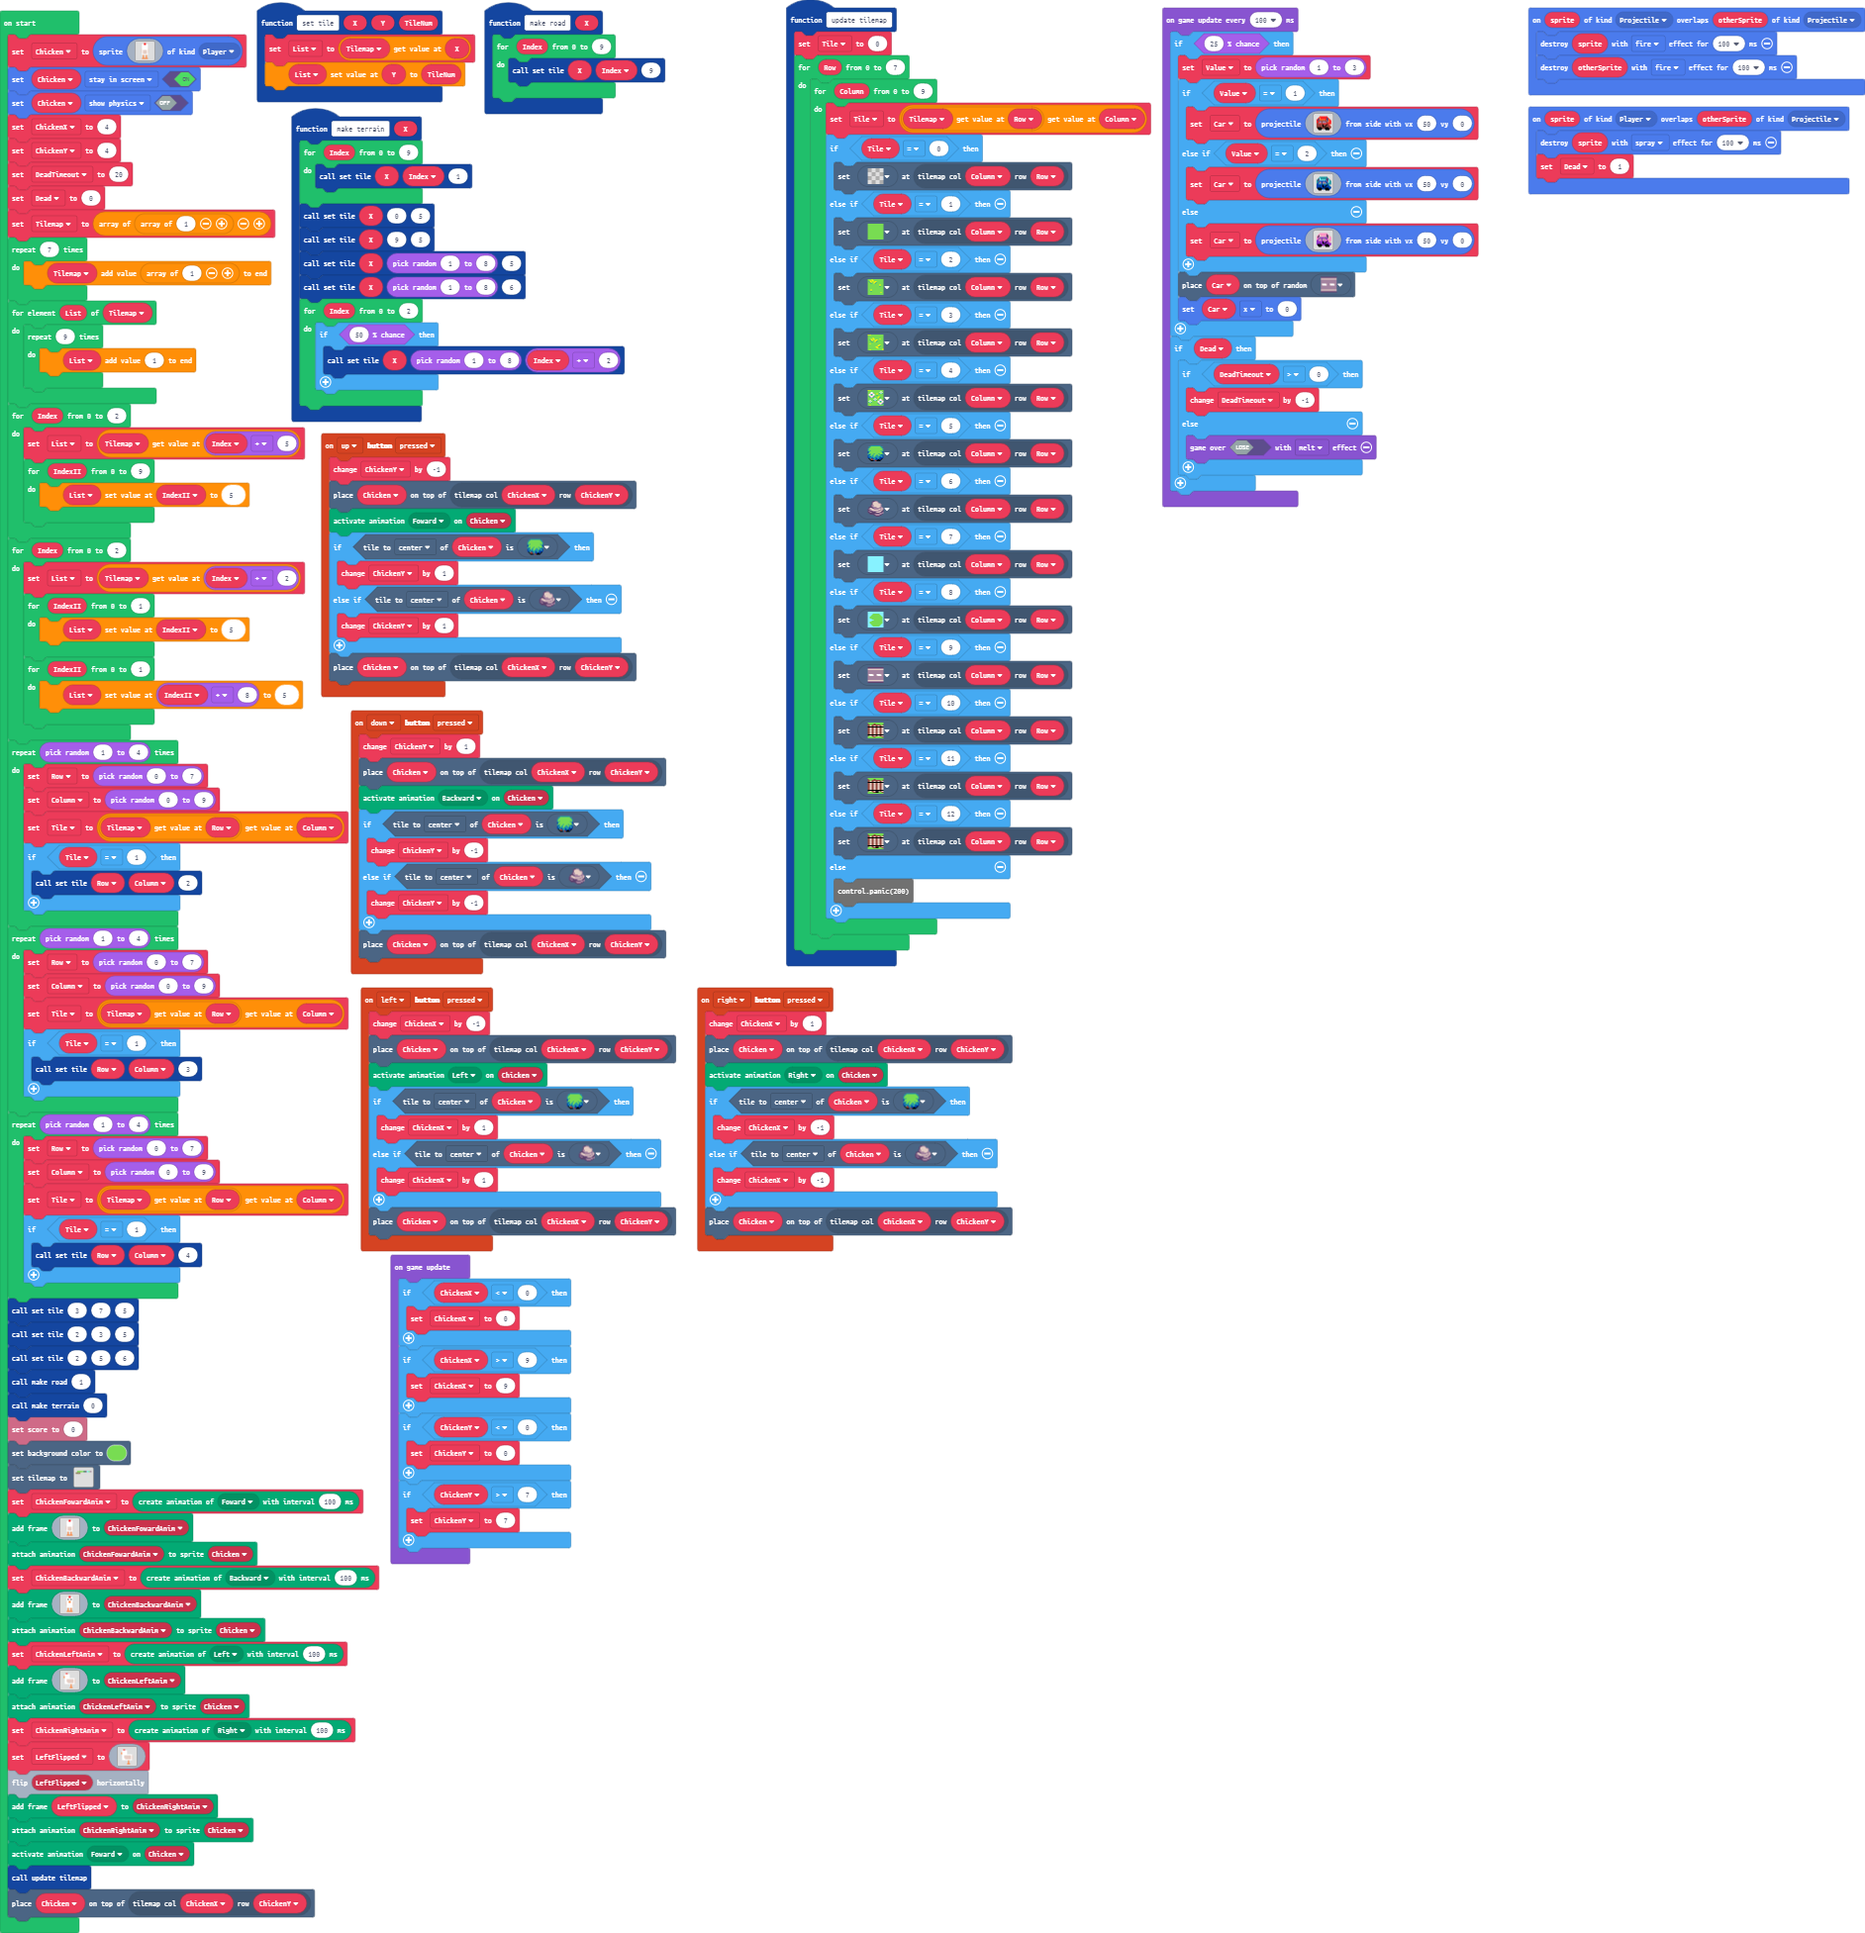
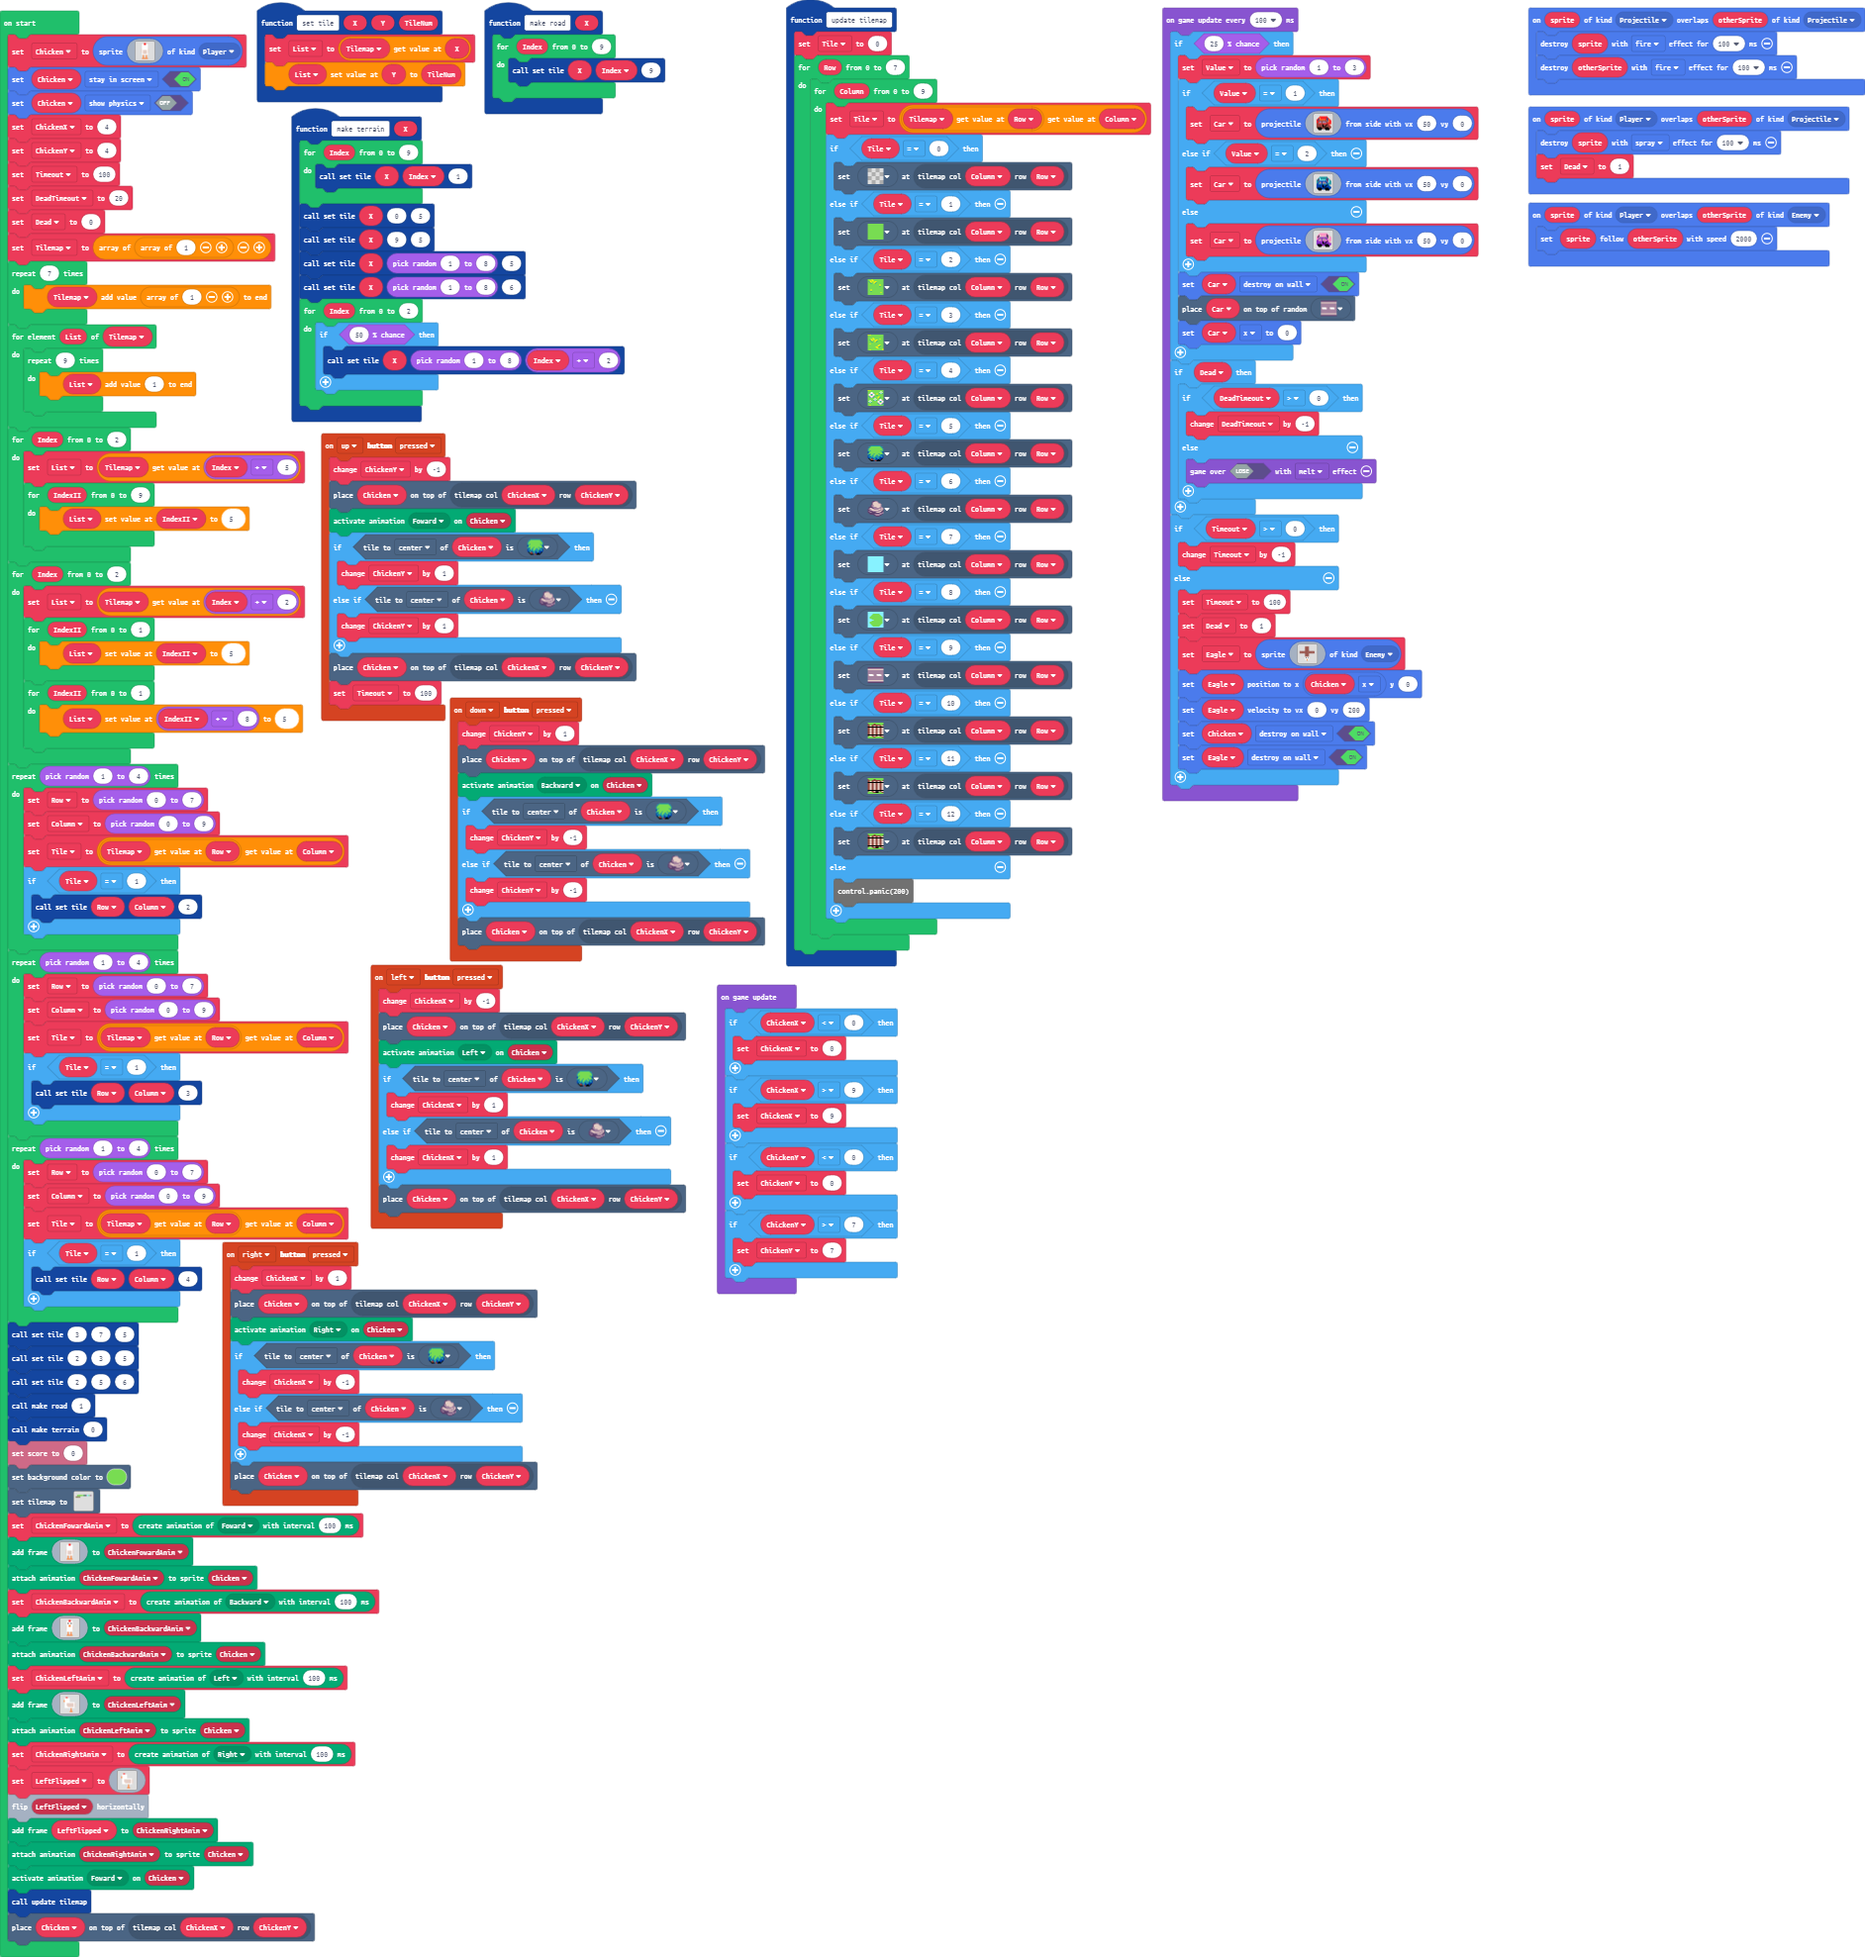
You can now die from idling

Changed region(s): [[0.0, 0.0, 0.6157, 0.9995], [0.6157, 0.0, 0.9851, 0.4373], [0.2771, 0.0, 0.3386, 0.0625]]

diff --git a/main.ts b/main.ts
@@ -186,6 +186,9 @@ sprites.onOverlap(SpriteKind.Projectile, SpriteKind.Projectile, function (sprite
     sprite.destroy(effects.fire, 100)
     otherSprite.destroy(effects.fire, 100)
 })
+sprites.onOverlap(SpriteKind.Player, SpriteKind.Enemy, function (sprite, otherSprite) {
+    sprite.follow(otherSprite, 2000)
+})
 controller.right.onEvent(ControllerButtonEvent.Pressed, function () {
     ChickenX += 1
     tiles.placeOnTile(Chicken, tiles.getTileLocation(ChickenX, ChickenY))
@@ -211,6 +214,7 @@ controller.up.onEvent(ControllerButtonEvent.Pressed, function () {
         ChickenY += 1
     }
     tiles.placeOnTile(Chicken, tiles.getTileLocation(ChickenX, ChickenY))
+    Timeout = 100
 })
 function make_road (X: number) {
     for (let Index = 0; Index <= 9; Index++) {
@@ -254,6 +258,7 @@ function update_tilemap () {
         }
     }
 }
+let Eagle: Sprite = null
 let Car: Sprite = null
 let Value = 0
 let Tile = 0
@@ -262,6 +267,7 @@ let Row = 0
 let List: number[] = []
 let Tilemap: number[][] = []
 let Dead = 0
+let Timeout = 0
 let ChickenY = 0
 let ChickenX = 0
 let Chicken: Sprite = null
@@ -287,6 +293,7 @@ Chicken.setFlag(SpriteFlag.StayInScreen, true)
 Chicken.setFlag(SpriteFlag.ShowPhysics, false)
 ChickenX = 4
 ChickenY = 4
+Timeout = 100
 let DeadTimeout = 20
 Dead = 0
 Tilemap = [[1]]
@@ -505,6 +512,7 @@ game.onUpdateInterval(100, function () {
 . . . . . . . . . . . . . . . . 
 `, 50, 0)
         }
+        Car.setFlag(SpriteFlag.DestroyOnWall, true)
         tiles.placeOnRandomTile(Car, sprites.vehicle.roadHorizontal)
         Car.x = 0
     }
@@ -514,6 +522,36 @@ game.onUpdateInterval(100, function () {
         } else {
             game.over(false, effects.melt)
         }
+    }
+    if (Timeout > 0) {
+        Timeout += -1
+    } else {
+        Timeout = 100
+        Dead = 1
+        Eagle = sprites.create(img`
+. . . . . . . e e e e e . . . . . . . . 
+. . . . . . . e e e e e . . . . . . . . 
+. . . . . . . e e e e e . . . . . . . . 
+. . . . . . . e e e e e . . . . . . . . 
+. . . . . . . e e e e e . . . . . . . . 
+. . . . . . . e e e e e . . . . . . . . 
+e e e e e e e e e e e e e e e e e e e . 
+e e e e e e e e e e e e e e e e e e e . 
+e e e e e e e e e e e e e e e e e e e . 
+. . . . . . . e e e e e . . . . . . . . 
+. . . . . . . e e e e e . . . . . . . . 
+. . . . . . . e e e e e . . . . . . . . 
+. . . . . . . e e e e e . . . . . . . . 
+. . . . . . . 1 1 1 1 1 . . . . . . . . 
+. . . . . . . 1 f 1 f 1 . . . . . . . . 
+. . . . . . . 1 1 1 1 1 . . . . . . . . 
+. . . . . . . 1 1 4 1 1 . . . . . . . . 
+. . . . . . . . . 4 . . . . . . . . . . 
+`, SpriteKind.Enemy)
+        Eagle.setPosition(Chicken.x, 0)
+        Eagle.setVelocity(0, 200)
+        Chicken.setFlag(SpriteFlag.DestroyOnWall, true)
+        Eagle.setFlag(SpriteFlag.DestroyOnWall, true)
     }
 })
 game.onUpdate(function () {
